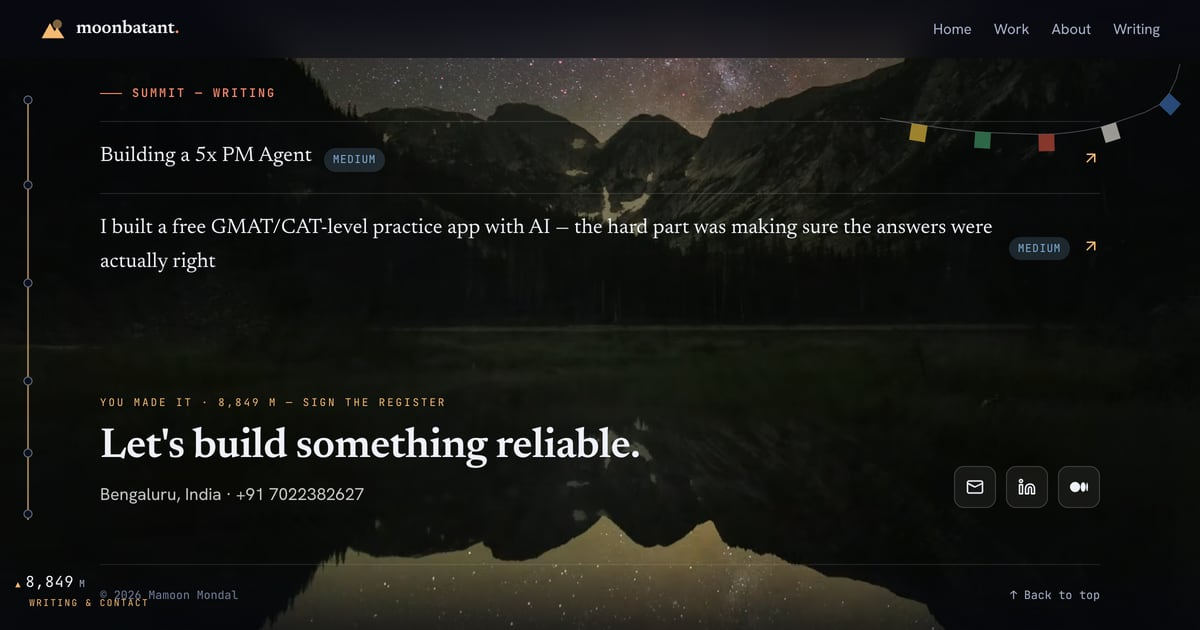
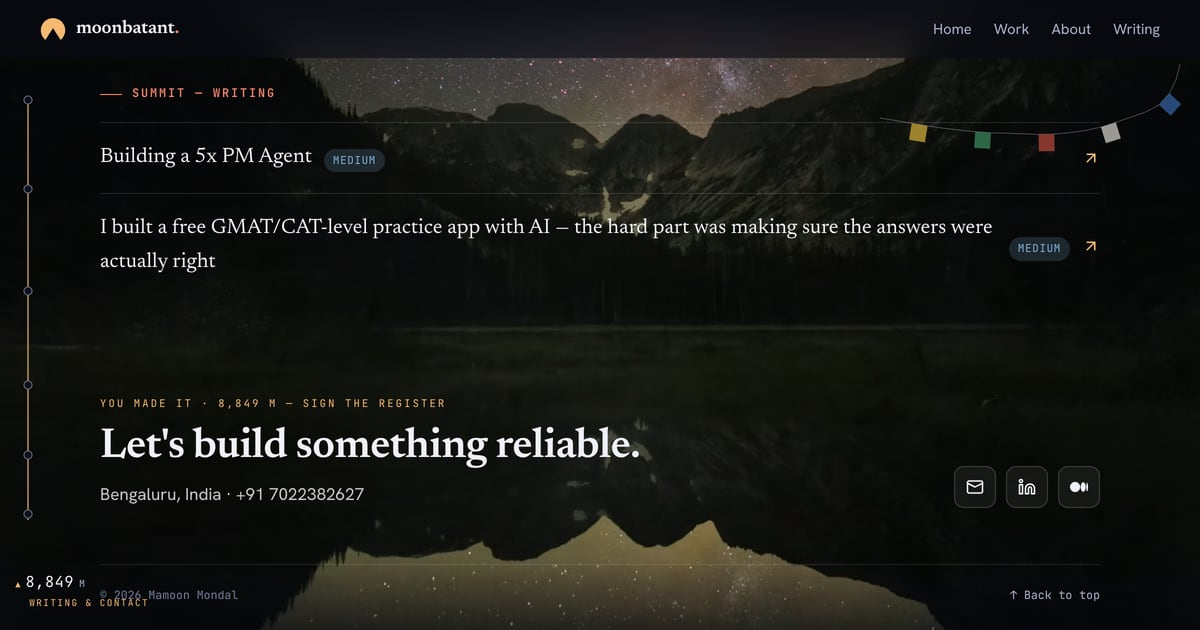
Polish: uniform Read corners, ghost-free first frame, fresh OG captures
- Read links pin to an identical bottom-right corner in every work card;
  the card column layout now reliably beats the glass base display so
  summaries stretch and feet sit flush (kills the empty-card imbalance).
- Hero/night loops no longer reveal until playback is past the 2s
  tail-to-head blend (media fragment + verified seek before reveal), and
  posters are cut from the same clean frame — no more blur-then-render
  first impression.
- OG thumbnails recaptured with the current header mark.

diff --git a/src/scripts/journey.ts b/src/scripts/journey.ts
@@ -123,8 +123,23 @@ export function initJourney() {
       v.playbackRate = rate;
       v.style.opacity = '0';
       v.style.transition = 'opacity 1.4s ease';
-      v.src = (av1OK && av1 ? av1 : h264 || av1) as string;
-      v.addEventListener('playing', () => { v.style.opacity = '1'; }, { once: true });
+      // The seamless-loop encode blends tail→head across the first 2s of the
+      // file. Mid-loop that blend IS the invisible seam — but STARTING inside
+      // it shows a ghosted double-exposure. A media fragment starts playback
+      // past it (race-proof, unlike seeking in loadedmetadata); posters are
+      // cut from the same clean frame so the handoff matches.
+      v.src = ((av1OK && av1 ? av1 : h264 || av1) as string) + '#t=2.6';
+      // reveal only from a clean frame: if the fragment start lost the race
+      // with play(), silently seek past the blend while still transparent
+      v.addEventListener('playing', () => {
+        if (v.currentTime < 2.4) {
+          const reveal = () => { v.style.opacity = '1'; };
+          v.addEventListener('seeked', reveal, { once: true });
+          try { v.currentTime = 2.6; } catch { reveal(); }
+        } else {
+          v.style.opacity = '1';
+        }
+      }, { once: true });
       plate.appendChild(v);
       mounted.add(plate);
       // Autoplay denied (rare with muted, but possible): keep the poster and
